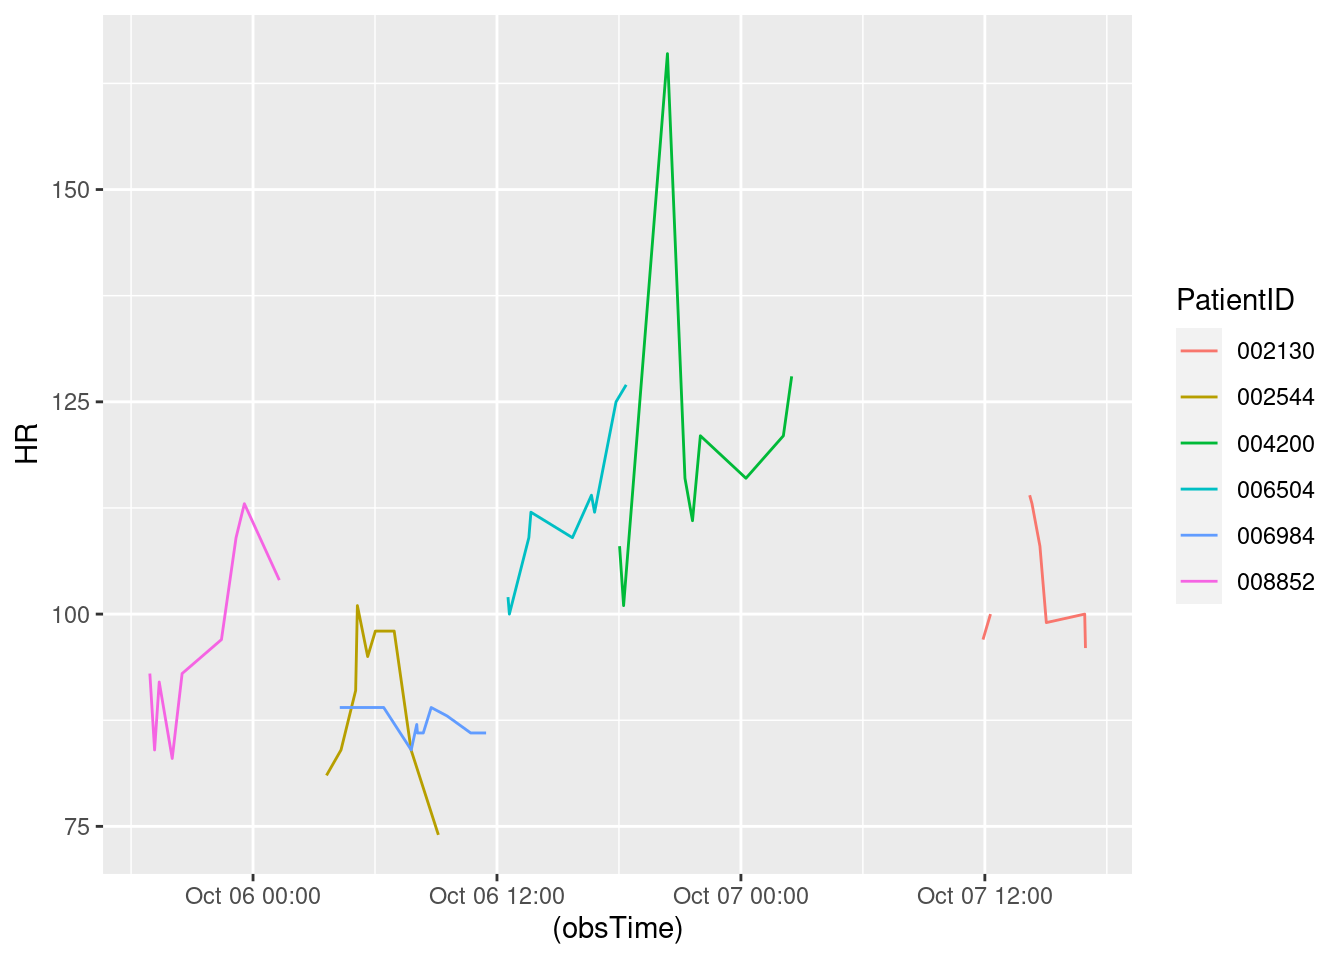
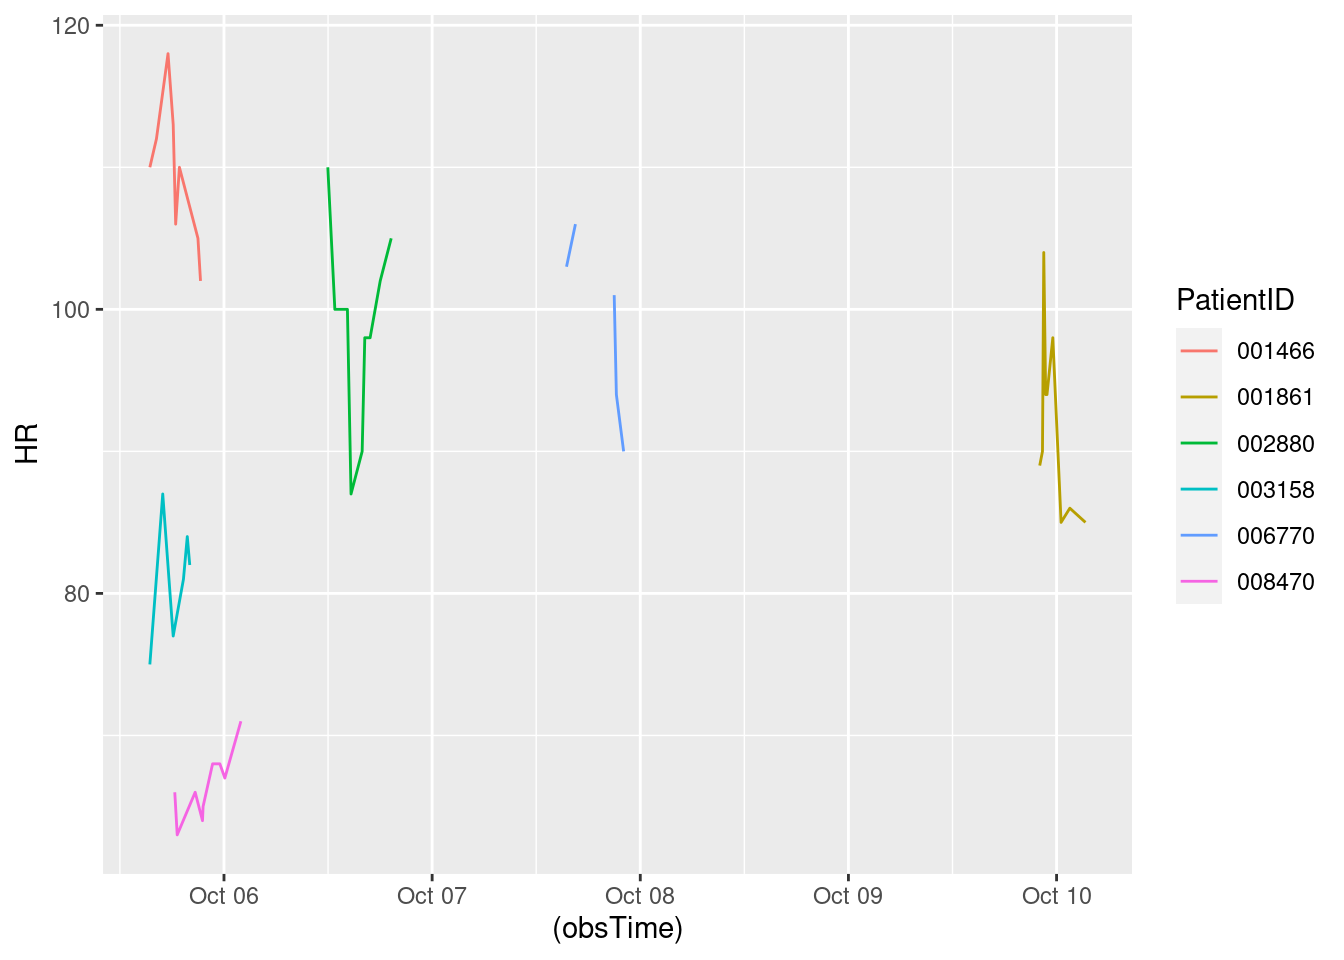
Updated report

diff --git a/HW7.html b/HW7.html
@@ -150,7 +150,7 @@ The following object is masked from 'package:purrr':
 </div>
 <div class="sourceCode cell-code" id="cb8"><pre class="sourceCode r code-with-copy"><code class="sourceCode r"><span id="cb8-1"><a href="#cb8-1" aria-hidden="true" tabindex="-1"></a><span class="fu">toc</span>()</span></code><button title="Copy to Clipboard" class="code-copy-button"><i class="bi"></i></button></pre></div>
 <div class="cell-output cell-output-stdout">
-<pre><code>3.276 sec elapsed</code></pre>
+<pre><code>7.141 sec elapsed</code></pre>
 </div>
 <div class="sourceCode cell-code" id="cb10"><pre class="sourceCode r code-with-copy"><code class="sourceCode r"><span id="cb10-1"><a href="#cb10-1" aria-hidden="true" tabindex="-1"></a><span class="fu">tic</span>()</span>
 <span id="cb10-2"><a href="#cb10-2" aria-hidden="true" tabindex="-1"></a>test1<span class="ot">=</span><span class="fu">makeSepsisDataset</span>(<span class="at">n=</span><span class="dv">50</span>,<span class="at">read_fn =</span> <span class="st">"read_delim"</span>)</span>
@@ -160,7 +160,7 @@ The following object is masked from 'package:purrr':
 </div>
 <div class="sourceCode cell-code" id="cb12"><pre class="sourceCode r code-with-copy"><code class="sourceCode r"><span id="cb12-1"><a href="#cb12-1" aria-hidden="true" tabindex="-1"></a><span class="fu">toc</span>()</span></code><button title="Copy to Clipboard" class="code-copy-button"><i class="bi"></i></button></pre></div>
 <div class="cell-output cell-output-stdout">
-<pre><code>14.924 sec elapsed</code></pre>
+<pre><code>27.273 sec elapsed</code></pre>
 </div>
 <div class="sourceCode cell-code" id="cb14"><pre class="sourceCode r code-with-copy"><code class="sourceCode r"><span id="cb14-1"><a href="#cb14-1" aria-hidden="true" tabindex="-1"></a><span class="fu">tic</span>()</span>
 <span id="cb14-2"><a href="#cb14-2" aria-hidden="true" tabindex="-1"></a>test1<span class="ot">=</span><span class="fu">makeSepsisDataset</span>(<span class="at">n=</span><span class="dv">100</span>,<span class="at">read_fn =</span> <span class="st">"fread"</span>)</span>
@@ -170,7 +170,7 @@ The following object is masked from 'package:purrr':
 </div>
 <div class="sourceCode cell-code" id="cb16"><pre class="sourceCode r code-with-copy"><code class="sourceCode r"><span id="cb16-1"><a href="#cb16-1" aria-hidden="true" tabindex="-1"></a><span class="fu">toc</span>()</span></code><button title="Copy to Clipboard" class="code-copy-button"><i class="bi"></i></button></pre></div>
 <div class="cell-output cell-output-stdout">
-<pre><code>5.492 sec elapsed</code></pre>
+<pre><code>12.576 sec elapsed</code></pre>
 </div>
 <div class="sourceCode cell-code" id="cb18"><pre class="sourceCode r code-with-copy"><code class="sourceCode r"><span id="cb18-1"><a href="#cb18-1" aria-hidden="true" tabindex="-1"></a><span class="fu">tic</span>()</span>
 <span id="cb18-2"><a href="#cb18-2" aria-hidden="true" tabindex="-1"></a>test1<span class="ot">=</span><span class="fu">makeSepsisDataset</span>(<span class="at">n=</span><span class="dv">100</span>,<span class="at">read_fn =</span> <span class="st">"read_delim"</span>)</span>
@@ -180,7 +180,7 @@ The following object is masked from 'package:purrr':
 </div>
 <div class="sourceCode cell-code" id="cb20"><pre class="sourceCode r code-with-copy"><code class="sourceCode r"><span id="cb20-1"><a href="#cb20-1" aria-hidden="true" tabindex="-1"></a><span class="fu">toc</span>()</span></code><button title="Copy to Clipboard" class="code-copy-button"><i class="bi"></i></button></pre></div>
 <div class="cell-output cell-output-stdout">
-<pre><code>22.632 sec elapsed</code></pre>
+<pre><code>51.501 sec elapsed</code></pre>
 </div>
 <div class="sourceCode cell-code" id="cb22"><pre class="sourceCode r code-with-copy"><code class="sourceCode r"><span id="cb22-1"><a href="#cb22-1" aria-hidden="true" tabindex="-1"></a><span class="fu">tic</span>()</span>
 <span id="cb22-2"><a href="#cb22-2" aria-hidden="true" tabindex="-1"></a>test1<span class="ot">=</span><span class="fu">makeSepsisDataset</span>(<span class="at">n=</span><span class="dv">500</span>,<span class="at">read_fn =</span> <span class="st">"fread"</span>)</span>
@@ -190,7 +190,7 @@ The following object is masked from 'package:purrr':
 </div>
 <div class="sourceCode cell-code" id="cb24"><pre class="sourceCode r code-with-copy"><code class="sourceCode r"><span id="cb24-1"><a href="#cb24-1" aria-hidden="true" tabindex="-1"></a><span class="fu">toc</span>()</span></code><button title="Copy to Clipboard" class="code-copy-button"><i class="bi"></i></button></pre></div>
 <div class="cell-output cell-output-stdout">
-<pre><code>27.602 sec elapsed</code></pre>
+<pre><code>62.648 sec elapsed</code></pre>
 </div>
 <div class="sourceCode cell-code" id="cb26"><pre class="sourceCode r code-with-copy"><code class="sourceCode r"><span id="cb26-1"><a href="#cb26-1" aria-hidden="true" tabindex="-1"></a><span class="fu">tic</span>()</span>
 <span id="cb26-2"><a href="#cb26-2" aria-hidden="true" tabindex="-1"></a>test1<span class="ot">=</span><span class="fu">makeSepsisDataset</span>(<span class="at">n=</span><span class="dv">500</span>,<span class="at">read_fn =</span> <span class="st">"read_delim"</span>)</span>
@@ -200,7 +200,7 @@ The following object is masked from 'package:purrr':
 </div>
 <div class="sourceCode cell-code" id="cb28"><pre class="sourceCode r code-with-copy"><code class="sourceCode r"><span id="cb28-1"><a href="#cb28-1" aria-hidden="true" tabindex="-1"></a><span class="fu">toc</span>()</span></code><button title="Copy to Clipboard" class="code-copy-button"><i class="bi"></i></button></pre></div>
 <div class="cell-output cell-output-stdout">
-<pre><code>111.911 sec elapsed</code></pre>
+<pre><code>257.099 sec elapsed</code></pre>
 </div>
 </div>
 <p>Problem 3: Speed reading</p>
@@ -242,7 +242,7 @@ dttm (1): obsTime
 <div class="sourceCode cell-code" id="cb35"><pre class="sourceCode r code-with-copy"><code class="sourceCode r"><span id="cb35-1"><a href="#cb35-1" aria-hidden="true" tabindex="-1"></a><span class="co">#Sys.Date()</span></span>
 <span id="cb35-2"><a href="#cb35-2" aria-hidden="true" tabindex="-1"></a><span class="fu">Sys.time</span>()</span></code><button title="Copy to Clipboard" class="code-copy-button"><i class="bi"></i></button></pre></div>
 <div class="cell-output cell-output-stdout">
-<pre><code>[1] "2023-10-05 14:19:47 UTC"</code></pre>
+<pre><code>[1] "2023-10-05 15:27:06 UTC"</code></pre>
 </div>
 <div class="sourceCode cell-code" id="cb37"><pre class="sourceCode r code-with-copy"><code class="sourceCode r"><span id="cb37-1"><a href="#cb37-1" aria-hidden="true" tabindex="-1"></a>dfnew<span class="ot">=</span>df <span class="sc">%&gt;%</span><span class="fu">subset</span>(SepsisLabel<span class="sc">==</span><span class="dv">1</span>)</span>
 <span id="cb37-2"><a href="#cb37-2" aria-hidden="true" tabindex="-1"></a></span>
@@ -261,17 +261,20 @@ dttm (1): obsTime
 # Groups:   PatientID [6]
   PatientID ICULOS    HR  Temp  Resp SepsisLabel obsTime            
   &lt;chr&gt;      &lt;int&gt; &lt;int&gt; &lt;dbl&gt; &lt;int&gt;       &lt;int&gt; &lt;dttm&gt;             
-1 002130        51    96  36.7    23           1 2023-10-07 16:56:58
-2 002544        19    74  NA      15           1 2023-10-06 09:07:01
-3 004200        38   128  NA      31           1 2023-10-07 02:29:48
-4 006504        30   127  NA      30           1 2023-10-06 18:21:22
-5 006984        23    86  NA      11           1 2023-10-06 11:27:53
-6 008852        12   104  NA      24           1 2023-10-06 01:17:38</code></pre>
+1 001466         7   102  NA      10           1 2023-10-05 21:17:34
+2 001861       108    85  37.4    16           1 2023-10-10 03:19:52
+3 002880        29    NA  NA      NA           1 2023-10-06 20:09:09
+4 003158         6    82  NA      15           1 2023-10-05 20:03:06
+5 006770        57    90  37.3    18           1 2023-10-07 22:04:49
+6 008470        11    71  NA      20           1 2023-10-06 01:56:55</code></pre>
 </div>
 </div>
 <div class="cell">
 <div class="sourceCode cell-code" id="cb39"><pre class="sourceCode r code-with-copy"><code class="sourceCode r"><span id="cb39-1"><a href="#cb39-1" aria-hidden="true" tabindex="-1"></a>dfnew <span class="sc">%&gt;%</span></span>
 <span id="cb39-2"><a href="#cb39-2" aria-hidden="true" tabindex="-1"></a>  <span class="fu">ggplot</span>()<span class="sc">+</span><span class="fu">geom_line</span>(<span class="fu">aes</span>(<span class="at">y=</span>HR,<span class="at">x=</span>(obsTime),<span class="at">color=</span>PatientID))</span></code><button title="Copy to Clipboard" class="code-copy-button"><i class="bi"></i></button></pre></div>
+<div class="cell-output cell-output-stderr">
+<pre><code>Warning: Removed 1 row containing missing values (`geom_line()`).</code></pre>
+</div>
 <div class="cell-output-display">
 <p><img src="HW7_files/figure-html/unnamed-chunk-6-1.png" class="img-fluid" width="672"></p>
 </div>
@@ -280,7 +283,7 @@ dttm (1): obsTime
 <section id="display-the-most-recent-data" class="level2">
 <h2 class="anchored" data-anchor-id="display-the-most-recent-data">Display the most recent data</h2>
 <div class="cell">
-<div class="sourceCode cell-code" id="cb40"><pre class="sourceCode r code-with-copy"><code class="sourceCode r"><span id="cb40-1"><a href="#cb40-1" aria-hidden="true" tabindex="-1"></a>most_recent_data</span></code><button title="Copy to Clipboard" class="code-copy-button"><i class="bi"></i></button></pre></div>
+<div class="sourceCode cell-code" id="cb41"><pre class="sourceCode r code-with-copy"><code class="sourceCode r"><span id="cb41-1"><a href="#cb41-1" aria-hidden="true" tabindex="-1"></a>most_recent_data</span></code><button title="Copy to Clipboard" class="code-copy-button"><i class="bi"></i></button></pre></div>
 <div class="cell-output cell-output-stdout">
 <pre><code># A tibble: 50 × 7
 # Groups:   PatientID [50]
@@ -303,32 +306,32 @@ dttm (1): obsTime
 <section id="calculate-the-difference" class="level2">
 <h2 class="anchored" data-anchor-id="calculate-the-difference">Calculate the difference</h2>
 <div class="cell">
-<div class="sourceCode cell-code" id="cb42"><pre class="sourceCode r code-with-copy"><code class="sourceCode r"><span id="cb42-1"><a href="#cb42-1" aria-hidden="true" tabindex="-1"></a><span class="fu">library</span>(dplyr)</span>
-<span id="cb42-2"><a href="#cb42-2" aria-hidden="true" tabindex="-1"></a><span class="fu">library</span>(tidyr)</span>
-<span id="cb42-3"><a href="#cb42-3" aria-hidden="true" tabindex="-1"></a><span class="fu">library</span>(knitr)</span>
-<span id="cb42-4"><a href="#cb42-4" aria-hidden="true" tabindex="-1"></a>get_observation_data <span class="ot">&lt;-</span> <span class="cf">function</span>(data, n, column_suffix) {</span>
-<span id="cb42-5"><a href="#cb42-5" aria-hidden="true" tabindex="-1"></a>  data <span class="sc">%&gt;%</span></span>
-<span id="cb42-6"><a href="#cb42-6" aria-hidden="true" tabindex="-1"></a>    <span class="fu">group_by</span>(PatientID) <span class="sc">%&gt;%</span></span>
-<span id="cb42-7"><a href="#cb42-7" aria-hidden="true" tabindex="-1"></a>    <span class="fu">slice_max</span>(<span class="at">order_by =</span> obsTime, <span class="at">n =</span> n) <span class="sc">%&gt;%</span></span>
-<span id="cb42-8"><a href="#cb42-8" aria-hidden="true" tabindex="-1"></a>    <span class="fu">select</span>(<span class="sc">-</span><span class="fu">c</span>(ICULOS, SepsisLabel, obsTime)) <span class="sc">%&gt;%</span></span>
-<span id="cb42-9"><a href="#cb42-9" aria-hidden="true" tabindex="-1"></a>    <span class="fu">rename_at</span>(<span class="fu">vars</span>(HR, Temp, Resp),</span>
-<span id="cb42-10"><a href="#cb42-10" aria-hidden="true" tabindex="-1"></a>              <span class="fu">list</span>(<span class="sc">~</span><span class="fu">paste0</span>(., <span class="st">"_"</span>, column_suffix)))</span>
-<span id="cb42-11"><a href="#cb42-11" aria-hidden="true" tabindex="-1"></a>}</span>
-<span id="cb42-12"><a href="#cb42-12" aria-hidden="true" tabindex="-1"></a></span>
-<span id="cb42-13"><a href="#cb42-13" aria-hidden="true" tabindex="-1"></a></span>
-<span id="cb42-14"><a href="#cb42-14" aria-hidden="true" tabindex="-1"></a></span>
-<span id="cb42-15"><a href="#cb42-15" aria-hidden="true" tabindex="-1"></a></span>
-<span id="cb42-16"><a href="#cb42-16" aria-hidden="true" tabindex="-1"></a>last_obs <span class="ot">&lt;-</span> <span class="fu">get_observation_data</span>(new_data, <span class="dv">1</span>, <span class="st">"last"</span>)</span>
-<span id="cb42-17"><a href="#cb42-17" aria-hidden="true" tabindex="-1"></a>penultimate_obs <span class="ot">&lt;-</span> <span class="fu">get_observation_data</span>(new_data, <span class="dv">2</span>, <span class="st">"penult"</span>)</span>
-<span id="cb42-18"><a href="#cb42-18" aria-hidden="true" tabindex="-1"></a>joined_data <span class="ot">&lt;-</span> <span class="fu">full_join</span>(last_obs, penultimate_obs) <span class="sc">%&gt;%</span></span>
-<span id="cb42-19"><a href="#cb42-19" aria-hidden="true" tabindex="-1"></a>  <span class="fu">transmute</span>(PatientID,</span>
-<span id="cb42-20"><a href="#cb42-20" aria-hidden="true" tabindex="-1"></a>            <span class="st">`</span><span class="at">Temperature change</span><span class="st">`</span> <span class="ot">=</span> Temp_last <span class="sc">-</span> Temp_penult,</span>
-<span id="cb42-21"><a href="#cb42-21" aria-hidden="true" tabindex="-1"></a>            <span class="st">`</span><span class="at">Heart rate change</span><span class="st">`</span> <span class="ot">=</span> HR_last <span class="sc">-</span> HR_penult,</span>
-<span id="cb42-22"><a href="#cb42-22" aria-hidden="true" tabindex="-1"></a>            <span class="st">`</span><span class="at">Respiratory rate change</span><span class="st">`</span> <span class="ot">=</span> Resp_last <span class="sc">-</span> Resp_penult)</span></code><button title="Copy to Clipboard" class="code-copy-button"><i class="bi"></i></button></pre></div>
+<div class="sourceCode cell-code" id="cb43"><pre class="sourceCode r code-with-copy"><code class="sourceCode r"><span id="cb43-1"><a href="#cb43-1" aria-hidden="true" tabindex="-1"></a><span class="fu">library</span>(dplyr)</span>
+<span id="cb43-2"><a href="#cb43-2" aria-hidden="true" tabindex="-1"></a><span class="fu">library</span>(tidyr)</span>
+<span id="cb43-3"><a href="#cb43-3" aria-hidden="true" tabindex="-1"></a><span class="fu">library</span>(knitr)</span>
+<span id="cb43-4"><a href="#cb43-4" aria-hidden="true" tabindex="-1"></a>get_observation_data <span class="ot">&lt;-</span> <span class="cf">function</span>(data, n, column_suffix) {</span>
+<span id="cb43-5"><a href="#cb43-5" aria-hidden="true" tabindex="-1"></a>  data <span class="sc">%&gt;%</span></span>
+<span id="cb43-6"><a href="#cb43-6" aria-hidden="true" tabindex="-1"></a>    <span class="fu">group_by</span>(PatientID) <span class="sc">%&gt;%</span></span>
+<span id="cb43-7"><a href="#cb43-7" aria-hidden="true" tabindex="-1"></a>    <span class="fu">slice_max</span>(<span class="at">order_by =</span> obsTime, <span class="at">n =</span> n) <span class="sc">%&gt;%</span></span>
+<span id="cb43-8"><a href="#cb43-8" aria-hidden="true" tabindex="-1"></a>    <span class="fu">select</span>(<span class="sc">-</span><span class="fu">c</span>(ICULOS, SepsisLabel, obsTime)) <span class="sc">%&gt;%</span></span>
+<span id="cb43-9"><a href="#cb43-9" aria-hidden="true" tabindex="-1"></a>    <span class="fu">rename_at</span>(<span class="fu">vars</span>(HR, Temp, Resp),</span>
+<span id="cb43-10"><a href="#cb43-10" aria-hidden="true" tabindex="-1"></a>              <span class="fu">list</span>(<span class="sc">~</span><span class="fu">paste0</span>(., <span class="st">"_"</span>, column_suffix)))</span>
+<span id="cb43-11"><a href="#cb43-11" aria-hidden="true" tabindex="-1"></a>}</span>
+<span id="cb43-12"><a href="#cb43-12" aria-hidden="true" tabindex="-1"></a></span>
+<span id="cb43-13"><a href="#cb43-13" aria-hidden="true" tabindex="-1"></a></span>
+<span id="cb43-14"><a href="#cb43-14" aria-hidden="true" tabindex="-1"></a></span>
+<span id="cb43-15"><a href="#cb43-15" aria-hidden="true" tabindex="-1"></a></span>
+<span id="cb43-16"><a href="#cb43-16" aria-hidden="true" tabindex="-1"></a>last_obs <span class="ot">&lt;-</span> <span class="fu">get_observation_data</span>(new_data, <span class="dv">1</span>, <span class="st">"last"</span>)</span>
+<span id="cb43-17"><a href="#cb43-17" aria-hidden="true" tabindex="-1"></a>penultimate_obs <span class="ot">&lt;-</span> <span class="fu">get_observation_data</span>(new_data, <span class="dv">2</span>, <span class="st">"penult"</span>)</span>
+<span id="cb43-18"><a href="#cb43-18" aria-hidden="true" tabindex="-1"></a>joined_data <span class="ot">&lt;-</span> <span class="fu">full_join</span>(last_obs, penultimate_obs) <span class="sc">%&gt;%</span></span>
+<span id="cb43-19"><a href="#cb43-19" aria-hidden="true" tabindex="-1"></a>  <span class="fu">transmute</span>(PatientID,</span>
+<span id="cb43-20"><a href="#cb43-20" aria-hidden="true" tabindex="-1"></a>            <span class="st">`</span><span class="at">Temperature change</span><span class="st">`</span> <span class="ot">=</span> Temp_last <span class="sc">-</span> Temp_penult,</span>
+<span id="cb43-21"><a href="#cb43-21" aria-hidden="true" tabindex="-1"></a>            <span class="st">`</span><span class="at">Heart rate change</span><span class="st">`</span> <span class="ot">=</span> HR_last <span class="sc">-</span> HR_penult,</span>
+<span id="cb43-22"><a href="#cb43-22" aria-hidden="true" tabindex="-1"></a>            <span class="st">`</span><span class="at">Respiratory rate change</span><span class="st">`</span> <span class="ot">=</span> Resp_last <span class="sc">-</span> Resp_penult)</span></code><button title="Copy to Clipboard" class="code-copy-button"><i class="bi"></i></button></pre></div>
 <div class="cell-output cell-output-stderr">
 <pre><code>Joining with `by = join_by(PatientID)`</code></pre>
 </div>
-<div class="sourceCode cell-code" id="cb44"><pre class="sourceCode r code-with-copy"><code class="sourceCode r"><span id="cb44-1"><a href="#cb44-1" aria-hidden="true" tabindex="-1"></a><span class="fu">kable</span>(joined_data, <span class="at">caption =</span> <span class="st">"Patients' Recent Changes in Vital Stats"</span>)</span></code><button title="Copy to Clipboard" class="code-copy-button"><i class="bi"></i></button></pre></div>
+<div class="sourceCode cell-code" id="cb45"><pre class="sourceCode r code-with-copy"><code class="sourceCode r"><span id="cb45-1"><a href="#cb45-1" aria-hidden="true" tabindex="-1"></a><span class="fu">kable</span>(joined_data, <span class="at">caption =</span> <span class="st">"Patients' Recent Changes in Vital Stats"</span>)</span></code><button title="Copy to Clipboard" class="code-copy-button"><i class="bi"></i></button></pre></div>
 <div class="cell-output-display">
 <table class="table table-sm table-striped small">
 <caption>Patients’ Recent Changes in Vital Stats</caption>
